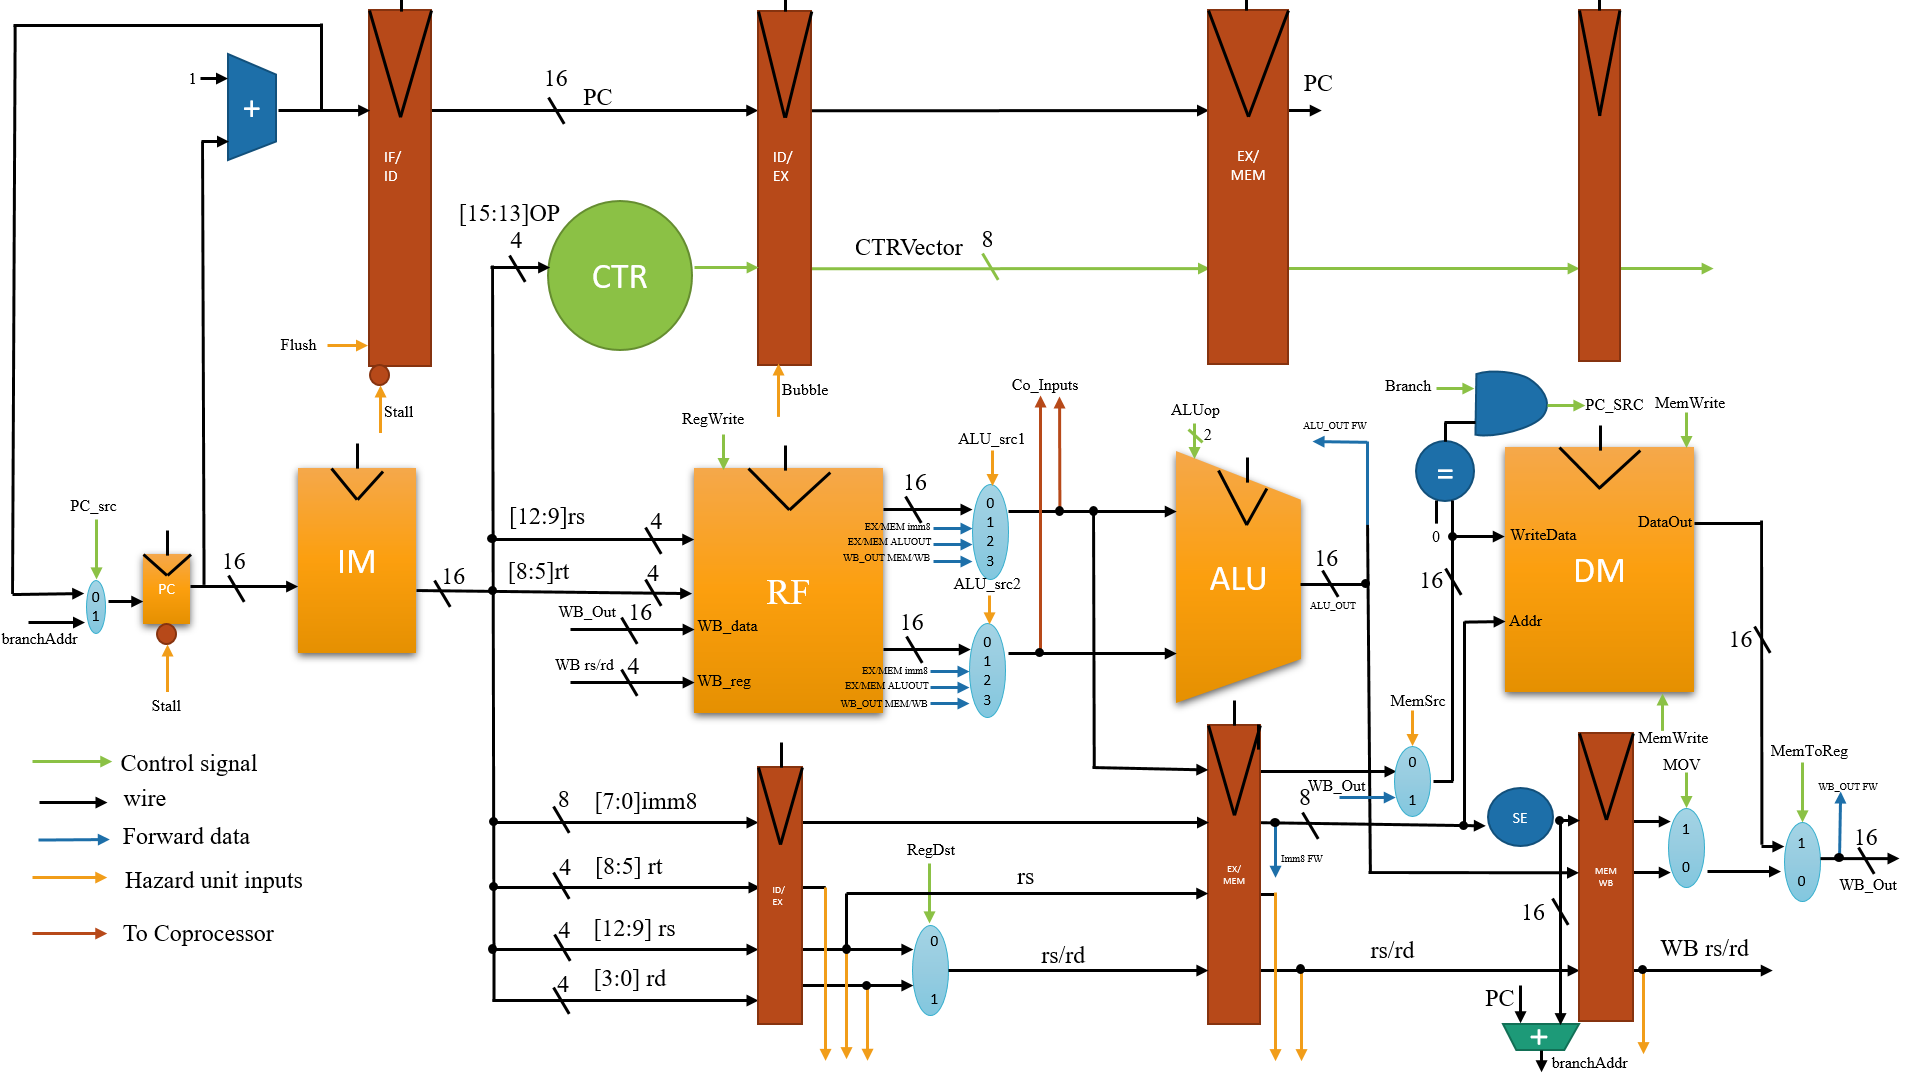
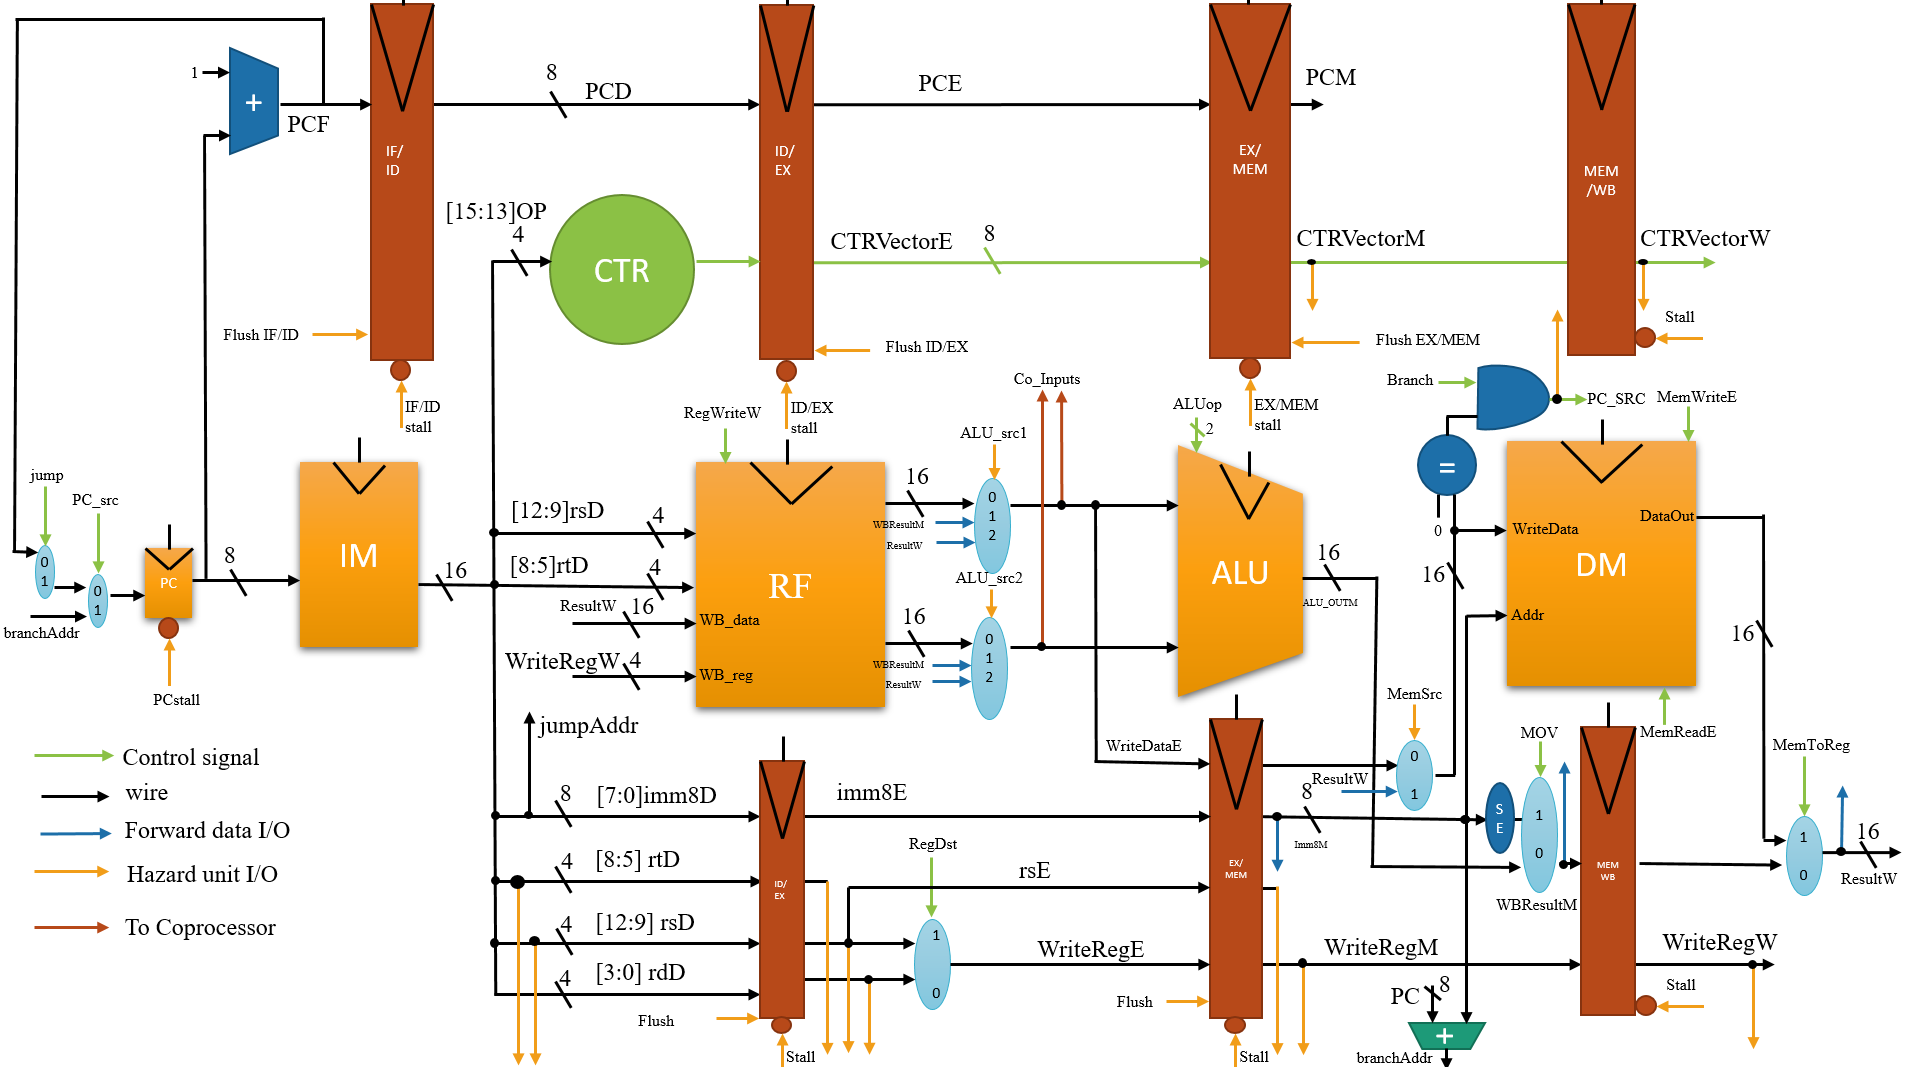
CHECKPOINT 01- Pipeline processor done NEED TEST

diff --git a/README.md b/README.md
@@ -39,26 +39,76 @@
     PS_CTR --> OP[OPcode]
 
 ```
-
-### Instruction set architecture
-
-### Datapath
-
-### Controlpath
-
-
-## 16-bit floating point Coprocessor
-
-### Specification
-
-### Datapath
+# Datapath
 1. Main Datapath
 ![Datapath](image/datapath_pipeline.png)
 
-2. Hazard Unit
+# Controlpath
+## CTR
+![ControlPath](image/OP_CTR_code.png)
 
-### Controlpath
+## Hazard Unit
+
+![HazardUnit](image/HazardUnits.png)
+
+# Forwarding Condition
+>To solve Data hazard including R-R sw-lw
+
+ALU_src1:
+```verilog
+    if((rsE!=0)and(rsE == WriteRegM) and (RegWriteM))
+        ALU_src1 = 01
+    else if ((rsE!=0) and (rsE == WriteRegW) and RegWriteW)
+        ALU_src1 = 10
+    else
+        ALU_src1 = 00
+```
+
+ALU_src2:
+```verilog
+    if((rsE!=0)and(rsE == WriteRegM) and (RegWriteM == 1))
+        ALU_src2 = 01
+    else if ((rsE!=0) and (rsE == WriteRegW) and RegWriteW == 1)
+        ALU_src2 = 10
+    else
+        ALU_src2 = 0
+```
+
+MemSrc:
+> To solve sw-lw data hazard
+```verilog
+    if((rsM!=0) and (rsM == WriteRegW) and (MemRead == 1))
+        MemSrc = 1
+    else
+        MemSrc = 0
+```
 
 
-## Testbench
+## Stall Condition
+> To solve lw-r data hazard and stop signal
+
+```verilog
+    if(stop)
+        stall Every Pipeline and PC
+    else if( ((rsI == rsE) and (rsI!=0)) or ((rsI == rsE) and (rtI != 0 )) and (MemRead == 1))
+        stall PC and flush ID/EX
+    else
+        do nothing
+```
+
+## Control Hazard Control
+> To solve j and branch hazard
+
+```verilog
+    if(jump == 1)
+        flush IF/ID
+    else if (PCSrc == 1)
+        flush EX/MEM for 3 cycles
+    else
+        do nothing
+```
+
+
+
+# Testbench
 # References
